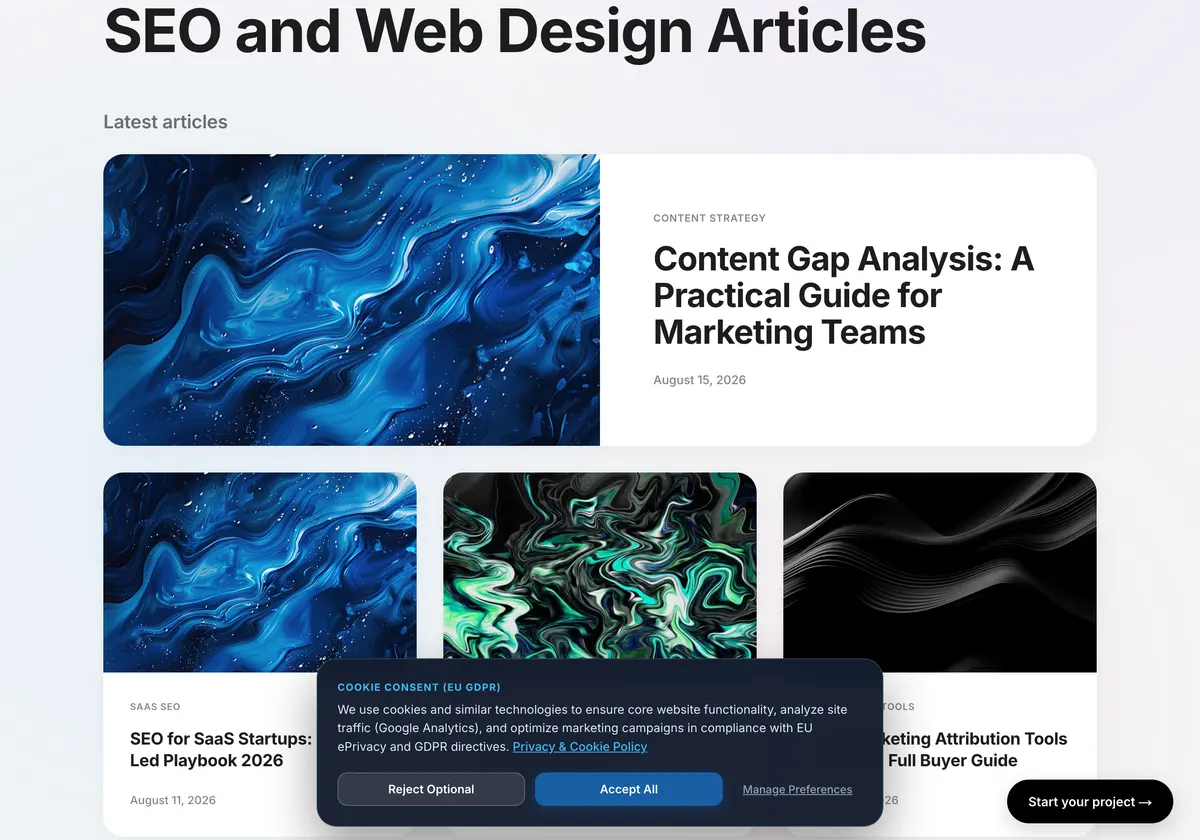
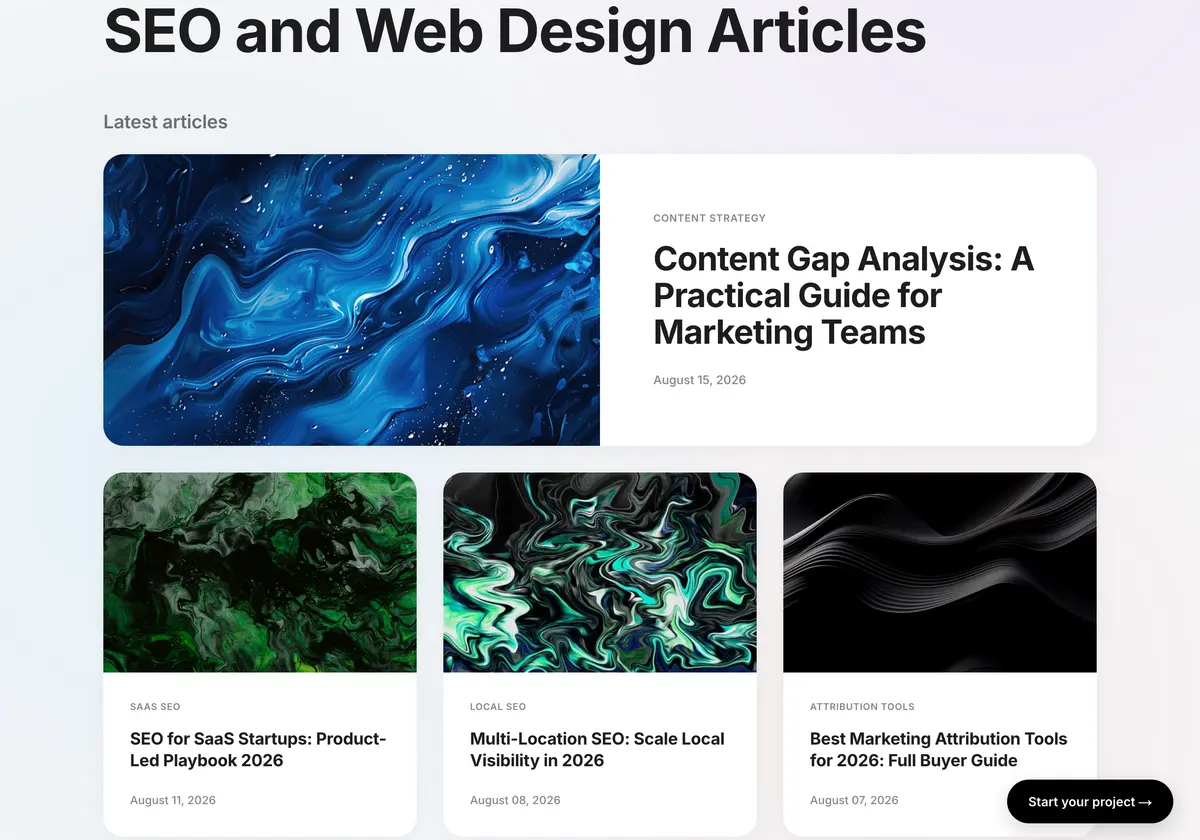
feat(blog): dwie nowe grafiki kafelkow + swiezy kafel bloga w mozaice
Nowe grafiki (Unsplash, licencja wolna, konwersja do WebP):
- abstract-molten-copper-fluid.webp (92 KB) - roztopiona miedz,
  Buddha Elemental 3D; kolor marki, brak powtorki z paletami serwisu
- abstract-emerald-liquid-marble.webp (306 KB) - ciemnoszmaragdowy
  liquid marble Pawla Czerwinskiego, ta sama seria akrylowych rozlewow
  co istniejacy niebieski marmur

Rozdanie po korektach klienta: RODO + Analiza luk (Content Gap) na
wspolnym niebieskim, Audyt UX -> miedz, SaaS Playbook -> szmaragd.
Banery artykulow (heroImage) Audytu UX i SaaS zsynchronizowane
z kafelkami - wpisy maja osobne pola image/heroImage i pierwsza
podmiana zmienila tylko miniatury.

Mozaika: swiezy zrzut podstrony bloga (own-blog-pl4/en4) z nowa siatka
grafik - kafel w scianie pokazuje aktualny wyglad bloga. Aliasy
starszych nazw odswiezone.

Changed region(s): [[0.0617, 0.5571, 0.7708, 1.0]]

diff --git a/components/Portfolio.jsx b/components/Portfolio.jsx
@@ -121,7 +121,7 @@ const MOSAIC = [
 { src: '/projects/mosaic/sta-blog-pl4.webp', w: 1200, h: 844,
     alt: 'Karty artykułów bazy wiedzy Staniax — metalizacja próżniowa i regeneracja odbłyśników', altEn: 'Staniax knowledge base — articles on vacuum metallization' },
 { src: '/projects/mosaic/sta-a-v4.webp', w: 1200, h: 800, alt: 'Sekcja „Kim jesteśmy" strony Staniax — metalizacja próżniowa, 25 lat doświadczenia', altEn: 'About section of the Staniax vacuum metallization website' , srcEn: '/projects/mosaic/sta-a-en3.webp' },
-{ src: '/projects/mosaic/own-blog-pl3.webp', srcEn: '/projects/mosaic/own-blog-en3.webp', w: 1200, h: 840,
+{ src: '/projects/mosaic/own-blog-pl4.webp', srcEn: '/projects/mosaic/own-blog-en4.webp', w: 1200, h: 840,
     alt: 'Blog AI SEO COMPANY — artykuły o SEO i web designie', altEn: 'AI SEO COMPANY blog — articles on SEO and web design' },
 { src: '/projects/mosaic/fix-a-v2.webp', w: 1200, h: 520, alt: 'Sekcja hero strony producenta świetlików dachowych Stef-Bud', altEn: 'Hero section of the Stef-Bud skylight manufacturer website' },
 { src: '/projects/gsc/staniax.webp', w: 1600, h: 726, alt: 'Panel Performance staniax.pl w Google Search Console: 152 kliknięcia i 6,34 tys. wyświetleń w 3 miesiące', altEn: 'Google Search Console performance panel for staniax.pl: 152 clicks and 6.34K impressions over 3 months' },
@@ -168,7 +168,7 @@ export default function Portfolio() {
       return [
         ['sta-a-v4', 'sta-blog-pl4', 'staniax'],
         ['mad-a-v2', 'madamethai'],
-        ['own-hero-pl4', 'own-blog-pl3', 'ai-seo-company'],
+        ['own-hero-pl4', 'own-blog-pl4', 'ai-seo-company'],
         ['ase-a-v2', 'fix-a-v2', 'ase-bot'],
         ['elkat-a-v2', 'tql-a', 'tql'],
       ].map((stack) => stack.map((k) => byKey[k]));

diff --git a/lib/blogPosts.js b/lib/blogPosts.js
@@ -44,8 +44,8 @@ export const blogPosts = [
     descPl: 'Jak przeprowadzić audyt UX, który kończy się backlogiem z priorytetami: weryfikacja pomiaru, analiza lejków, testy z użytkownikami i pomiar efektu.',
     descEn: '',
     slug: '/blog/audyt-ux-strony',
-    image: '/images/pngtree-abstract-design-background-blue-color-with-aesthetic-and-liquid-style-image_15684491.jpg',
-    heroImage: '/images/pngtree-abstract-design-background-blue-color-with-aesthetic-and-liquid-style-image_15684491.jpg',
+    image: '/images/abstract-molten-copper-fluid.webp',
+    heroImage: '/images/abstract-molten-copper-fluid.webp',
     enOnly: false,
     plOnly: true
   },
@@ -60,8 +60,8 @@ export const blogPosts = [
     descPl: '',
     descEn: 'A product-led SEO playbook for SaaS startups: BOFU pages first, technical foundation, programmatic scale, and what it actually costs in 2026.',
     slug: '/blog/seo-for-saas-startups-playbook',
-    image: '/images/pngtree-abstract-design-background-blue-color-with-aesthetic-and-liquid-style-image_15684491.jpg',
-    heroImage: '/images/pngtree-abstract-design-background-blue-color-with-aesthetic-and-liquid-style-image_15684491.jpg',
+    image: '/images/abstract-emerald-liquid-marble.webp',
+    heroImage: '/images/abstract-emerald-liquid-marble.webp',
     enOnly: true,
     plOnly: false
   },
